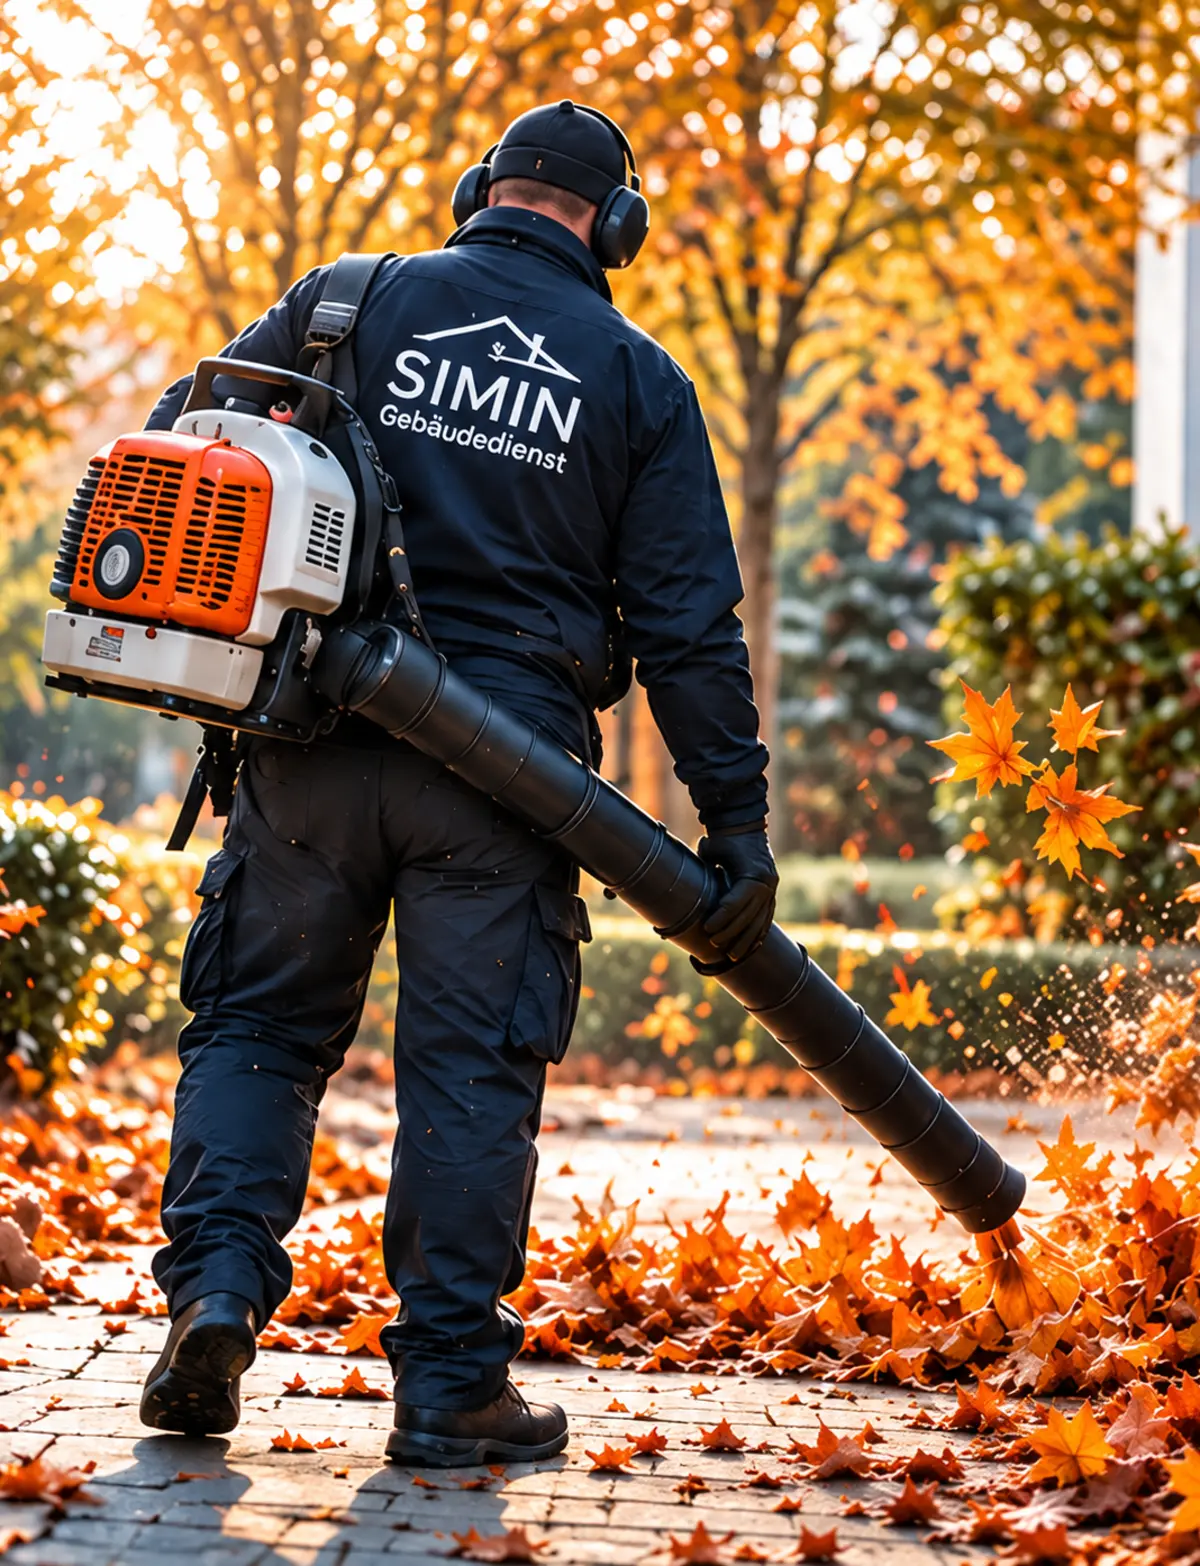
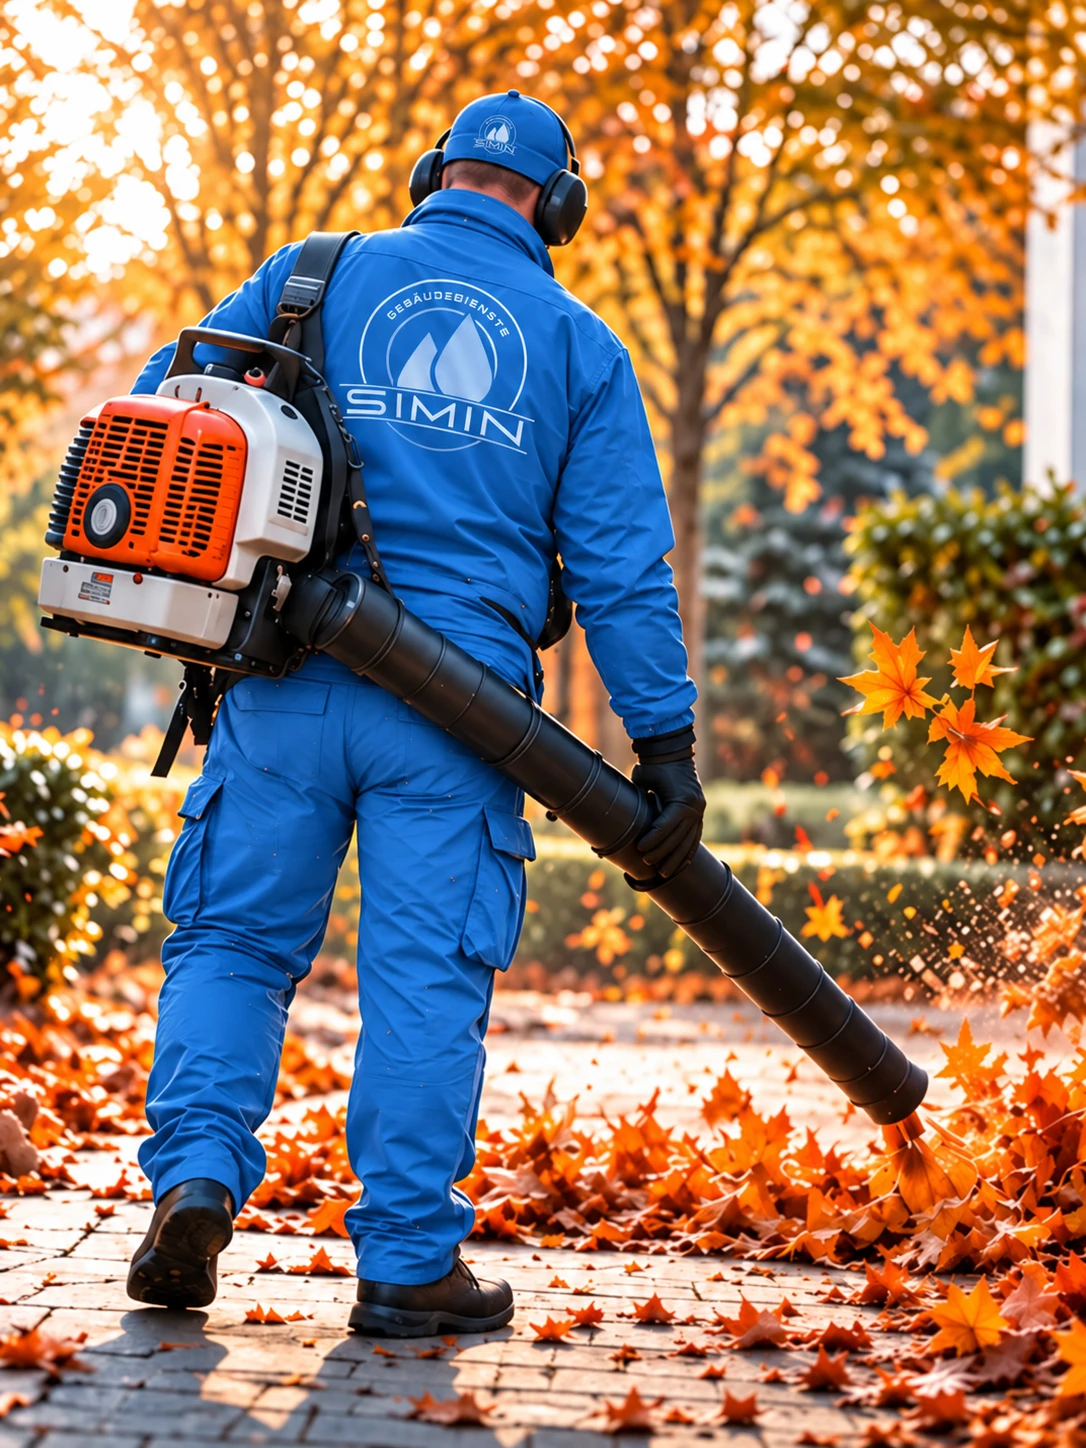
Replace service photos with final SIMIN-branded images, add CTA photo
Swaps the five service images (Gebäudereinigung, Objektservice,
Außenanlagen-Grün, Herbst/Außenanlagen, Winterdienst) for the final
SIMIN-branded photography under their existing filenames, so every
page/component already referencing them (PageHero, ServicePanel,
SeasonalCampaign, homepage CTA) picks them up automatically. No
component, layout, text or animation changed.

Adds a new dedicated image for the homepage's final CTA
("IHRE IMMOBILIE. UNSER SERVICE.") instead of reusing the
Gebäudereinigung photo, with its own imagePositions.ts entry
(vertically biased crop so both people's heads/torsos stay in frame
in the wide, short CTA background instead of a plain center crop).

Verified via Playwright screenshots (desktop 1440 + mobile 390) on
the homepage and all four service pages: no faces or logos cut off,
0 broken asset requests, hero-immobilie.webp and logo files
untouched.

Claude-Session: https://claude.ai/code/session_01MSWyouhytQPxnfrCDKvpVJ

diff --git a/src/lib/imagePositions.ts b/src/lib/imagePositions.ts
@@ -12,4 +12,11 @@ export const imagePositions: Record<string, string> = {
   "/images/service-aussenanlagen-gruen.webp": "center 2%",
   "/images/service-winterdienst.webp": "center 4%",
   "/images/service-aussenanlagen.webp": "center 6%",
+  /**
+   * Querformat-Teamfoto (zwei Personen + SIMIN-Fahrzeug + Gebäudeschild) im
+   * finalen CTA. In der sehr breiten/flachen CTA-Fläche wird vertikal
+   * beschnitten; "30%" hält Köpfe und Oberkörper beider Personen im
+   * sichtbaren Bereich statt der Bildmitte.
+   */
+  "/images/cta-immobilie-service.webp": "center 30%",
 };
